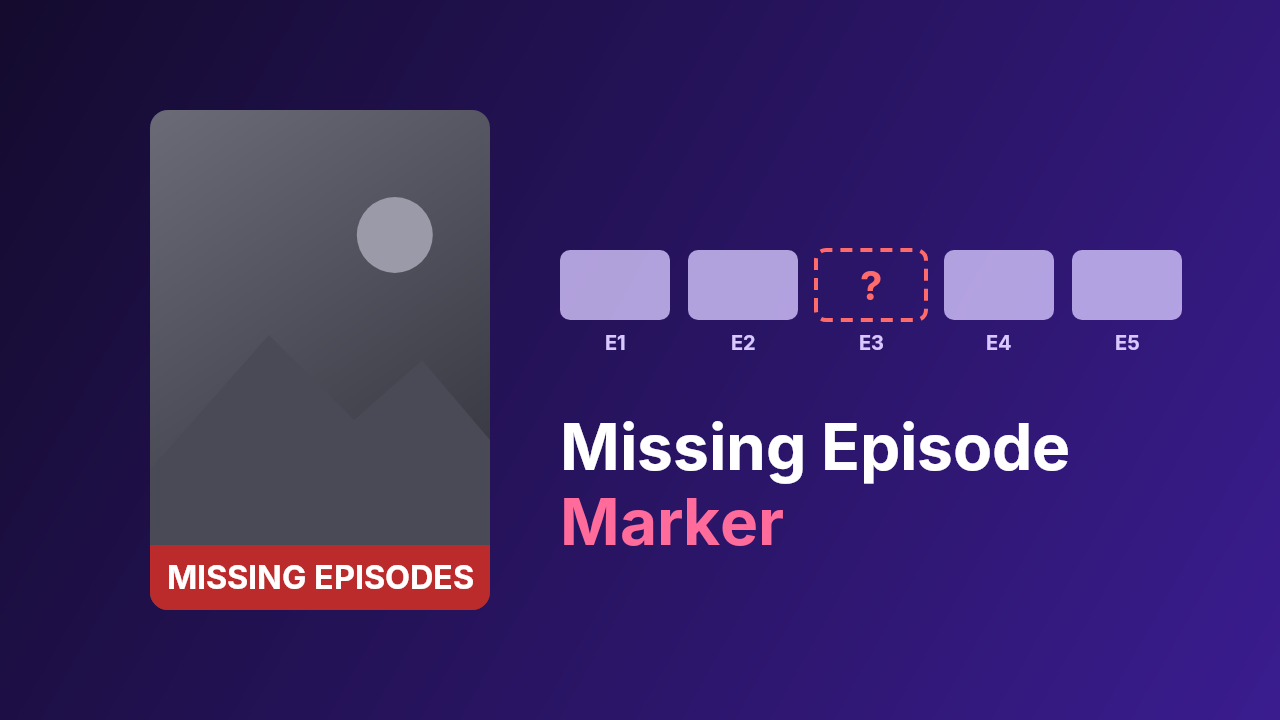
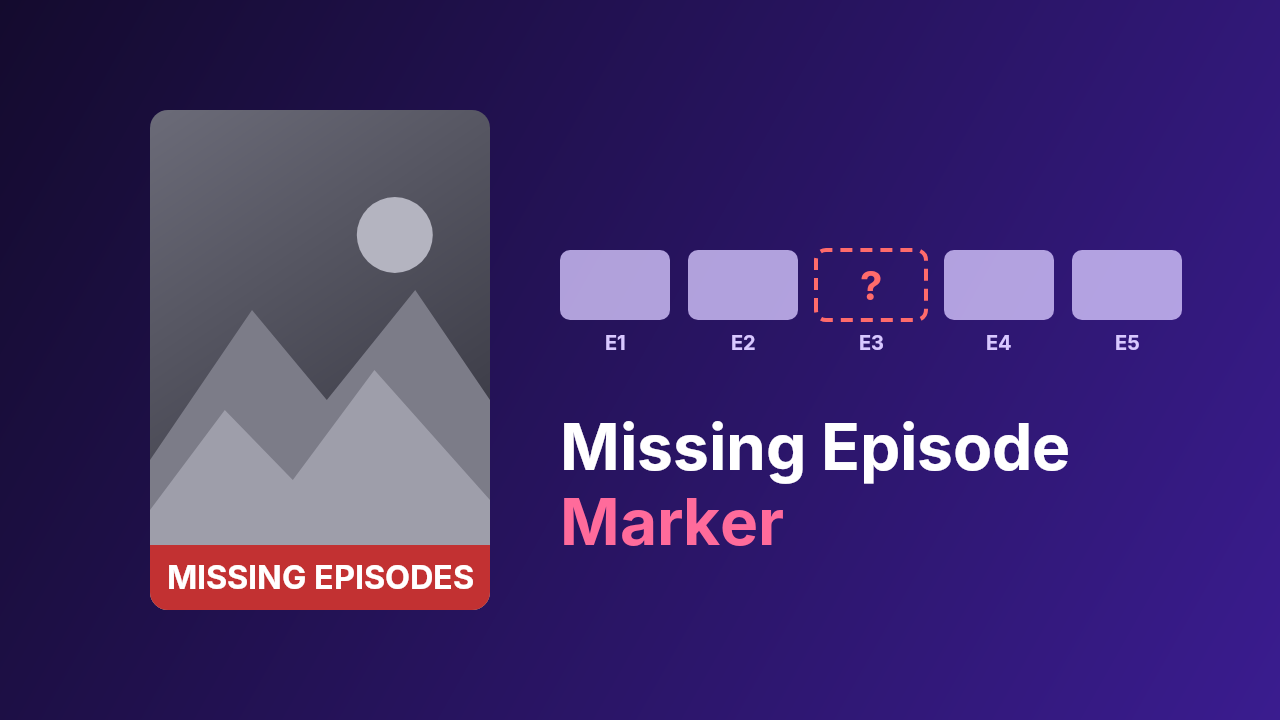
0.2.1: run a check when detection/appearance settings are saved; clearer image
Claude-Session: https://claude.ai/code/session_01Kfv8gBRXvzQ1nu8M3mB9aE

Changed region(s): [[0.0938, 0.275, 0.4062, 0.7639]]

diff --git a/Jellyfin.Plugin.MissingEpisodeMarker/Configuration/configPage.html b/Jellyfin.Plugin.MissingEpisodeMarker/Configuration/configPage.html
@@ -441,6 +441,7 @@
                     <button is="emby-button" type="submit" class="raised button-submit block emby-button">
                         <span>Save</span>
                     </button>
+                    <div class="mem-small" style="margin-top:.4em">When you change detection, rules or appearance, saving starts a new check automatically.</div>
                 </div>
             </form>
         </div>

diff --git a/Jellyfin.Plugin.MissingEpisodeMarker/Services/LibraryChangeWatcher.cs b/Jellyfin.Plugin.MissingEpisodeMarker/Services/LibraryChangeWatcher.cs
@@ -1,6 +1,7 @@
 using System;
 using System.Collections.Concurrent;
 using System.Linq;
+using System.Text.Json;
 using System.Threading;
 using System.Threading.Tasks;
 using Jellyfin.Plugin.MissingEpisodeMarker.Configuration;
@@ -33,6 +34,9 @@ public sealed class LibraryChangeWatcher : IHostedService, IDisposable
     private readonly ConcurrentDictionary<Guid, CancellationTokenSource> _pendingReapply = new();
     private readonly ConcurrentDictionary<Guid, CancellationTokenSource> _pendingRecheck = new();
     private readonly CancellationTokenSource _stopping = new();
+    private readonly object _snapshotLock = new();
+    private CancellationTokenSource? _pendingConfigCheck;
+    private string? _lastCheckSnapshot;
 
     /// <summary>
     /// Initializes a new instance of the <see cref="LibraryChangeWatcher"/> class.
@@ -66,6 +70,7 @@ public sealed class LibraryChangeWatcher : IHostedService, IDisposable
         if (Plugin.Instance is not null)
         {
             Plugin.Instance.ConfigurationChanged += OnConfigurationChanged;
+            _lastCheckSnapshot = CheckSnapshot(Plugin.Instance.Configuration);
         }
 
         // Scheduled tasks may not be registered yet at startup; apply the schedule a little later.
@@ -124,7 +129,69 @@ public sealed class LibraryChangeWatcher : IHostedService, IDisposable
         _ => null,
     };
 
-    private void OnConfigurationChanged(object? sender, BasePluginConfiguration e) => ApplySchedule();
+    private void OnConfigurationChanged(object? sender, BasePluginConfiguration e)
+    {
+        ApplySchedule();
+
+        if (e is not PluginConfiguration config)
+        {
+            return;
+        }
+
+        // Settings that change what gets marked or how it looks: re-run the check so posters follow at once.
+        var snapshot = CheckSnapshot(config);
+        CancellationToken token;
+        lock (_snapshotLock)
+        {
+            if (snapshot == _lastCheckSnapshot)
+            {
+                return;
+            }
+
+            _lastCheckSnapshot = snapshot;
+            _pendingConfigCheck?.Cancel();
+            _pendingConfigCheck?.Dispose();
+            _pendingConfigCheck = CancellationTokenSource.CreateLinkedTokenSource(_stopping.Token);
+            token = _pendingConfigCheck.Token;
+        }
+
+        if (string.IsNullOrWhiteSpace(config.SonarrApiKey))
+        {
+            return;
+        }
+
+        _ = Task.Run(
+            async () =>
+            {
+                try
+                {
+                    // Short pause so several quick saves only start one check.
+                    await Task.Delay(TimeSpan.FromSeconds(3), token).ConfigureAwait(false);
+                    _logger.LogInformation("Missing Episode Marker settings changed; running a check");
+                    _taskManager.QueueScheduledTask<MarkMissingEpisodesTask>();
+                }
+                catch (OperationCanceledException)
+                {
+                    // Superseded by a newer save or shutting down.
+                }
+            },
+            CancellationToken.None);
+    }
+
+    /// <summary>
+    /// A fingerprint of every setting that affects detection or marking.
+    /// Schedule, menu and "when to check" settings are left out: changing them needs no new check.
+    /// </summary>
+    private static string CheckSnapshot(PluginConfiguration config)
+    {
+        var copy = JsonSerializer.Deserialize<PluginConfiguration>(JsonSerializer.Serialize(config)) ?? new PluginConfiguration();
+        copy.Schedule = CheckSchedule.Off;
+        copy.ShowInMenu = false;
+        copy.ReactToLibraryChanges = false;
+        copy.RunAfterLibraryScan = false;
+        copy.FillerRefreshDays = 0;
+        return JsonSerializer.Serialize(copy);
+    }
 
     /// <summary>Sets the scheduled task's timer from the settings. Returns false if the task is not registered yet.</summary>
     private bool ApplySchedule()
